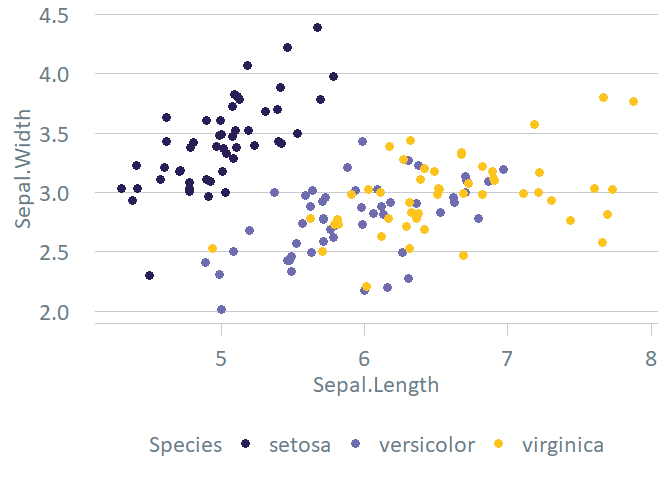
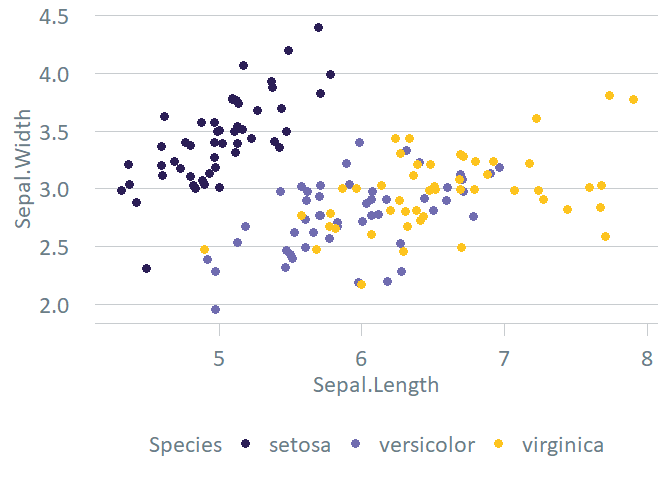
update readme/vignettes to include mpr theme

diff --git a/README.md b/README.md
@@ -8,7 +8,7 @@ Overview
 `boeCharts` is an R package containing Bank chart styles and themes, in-line with [Bank standards on corporate identity](https://bankofengland.frontify.com/d/RPk6pMZziBFw/bank-standards), recommended (and designed) for use in conjunction with [ggplot2](https://ggplot2.tidyverse.org/). It currently houses designs for approximating charts found within a number of flagship publications:
 
 -   [Bank Overground](https://www.bankofengland.co.uk/bank-overground)
--   [Inflation Report](https://www.bankofengland.co.uk/inflation-report/2018/august-2018/global-economic-and-financial-market-developments)
+-   [Monetary Policy Report](https://www.bankofengland.co.uk/monetary-policy-report/2019/november-2019) (FKA Inflation Report)
 -   [Statistical Releases](https://www.bankofengland.co.uk/statistics/money-and-credit/2019/april-2019)
 
 Install
@@ -78,17 +78,26 @@ Below, the [Bank Overground](https://www.bankofengland.co.uk/bank-overground) ch
 # load boeCharts
 library(boeCharts)
 
-chart <- chart +
+chart +
   # add Bank Overground theme
   theme_overground() +
   # add a "vibrant" Bank colour combination
   scale_colour_discrete_boe(palette = "vibrant_c")
-
-# print
-chart
 ```
 
 ![](man/figures/README-unnamed-chunk-5-1.png)
+
+Now, switching in the [Monetary Policy Report](https://www.bankofengland.co.uk/monetary-policy-report/2019/november-2019) theme and colours.
+
+``` r
+chart +
+  # add MPR theme
+  theme_mpr() +
+  # add a "vibrant" Bank colour combination
+  scale_colour_discrete_boe(palette = "mpr")
+```
+
+![](man/figures/README-unnamed-chunk-6-1.png)
 
 ### A more in-depth example
 
